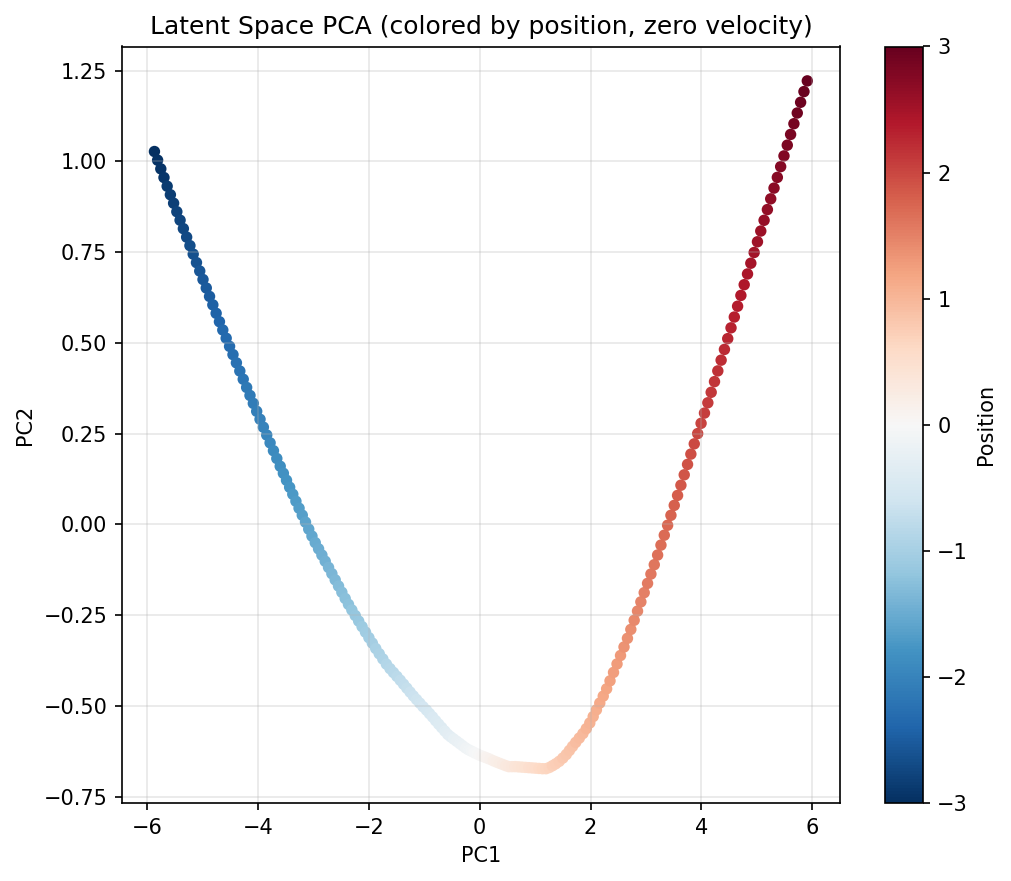
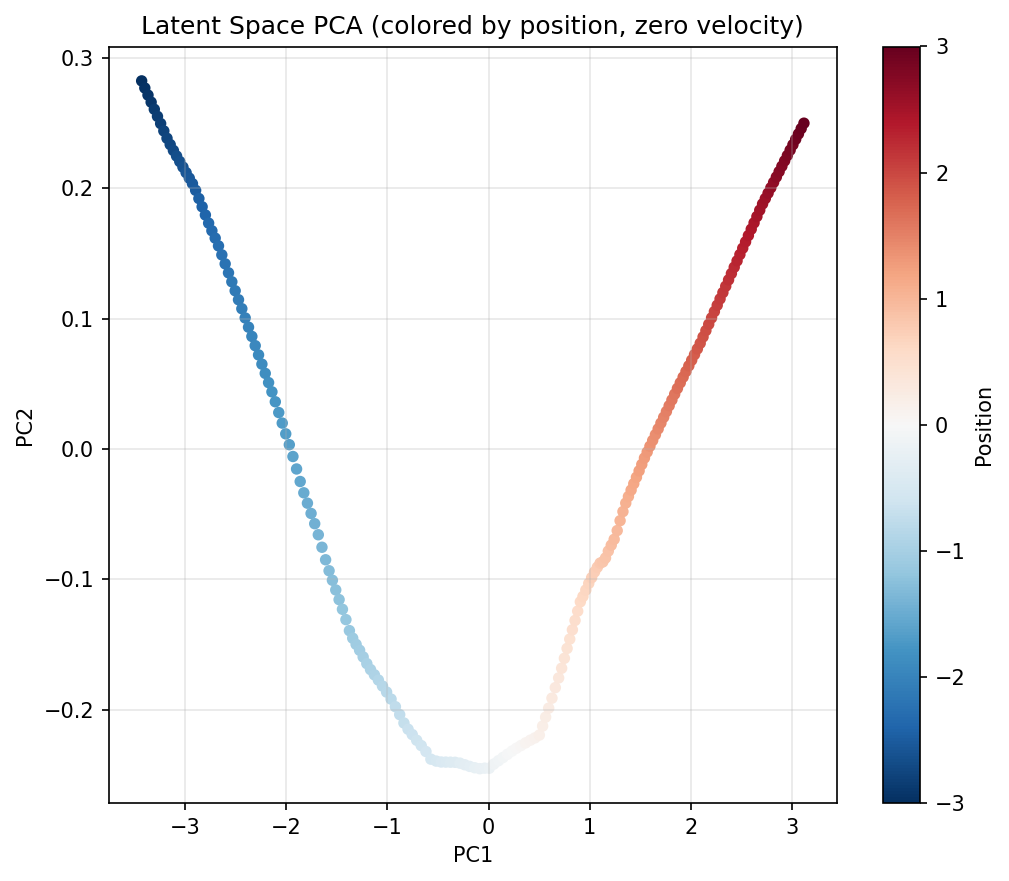
reduce param count from 86k -> 38k while improving loss

diff --git a/src/wrld/train.py b/src/wrld/train.py
@@ -43,10 +43,25 @@ def _synchronize_device(device: torch.device) -> None:
         torch.mps.synchronize()
 
 
+def _rollout_mse(model: WorldModel, val_obs: torch.Tensor, val_actions: torch.Tensor) -> torch.Tensor:
+    """Returns per-sequence rollout MSE over the full val set. Shape: (N,)"""
+    N, T, _ = val_obs.shape
+    with torch.no_grad():
+        mu_0, _ = model.encoder(val_obs[:, 0, :])
+        z = mu_0
+        preds = [model.decoder(z)]
+        for t in range(T - 1):
+            z = model.dynamics(z, val_actions[:, t, :])
+            preds.append(model.decoder(z))
+        predicted = torch.stack(preds, dim=1)  # (N, T, 2)
+        return ((predicted - val_obs) ** 2).mean(dim=(1, 2))  # (N,)
+
+
 def train(
     model: WorldModel,
     train_loader,
     val_loader,
+    val_data: dict = None,
     num_epochs: int = 200,
     lr: float = 1e-3,
     kl_weight: float = 0.001,
@@ -54,6 +69,7 @@ def train(
     device: torch.device = None,
     checkpoint_dir=None,
     checkpoint_every: int = 20,
+    rollout_every: int = 10,
 ) -> dict:
     """Full training loop. Returns loss history dict."""
     if device is None:
@@ -63,10 +79,18 @@ def train(
     optimizer = Adam(model.parameters(), lr=lr)
     scheduler = CosineAnnealingLR(optimizer, T_max=num_epochs)
 
+    # Pre-move val tensors to device once if provided
+    val_obs = val_actions = None
+    if val_data is not None:
+        val_obs = val_data["observations"].to(device)
+        val_actions = val_data["actions"].to(device)
+
     history = {
         "train_total": [], "train_recon": [], "train_dynamics": [], "train_kl": [],
         "val_total": [], "val_recon": [], "val_dynamics": [], "val_kl": [],
         "epoch_seconds": [],
+        "rollout_epochs": [], "rollout_mean": [], "rollout_std": [],
+        "rollout_min": [], "rollout_max": [],
     }
     _synchronize_device(device)
     training_start = perf_counter()
@@ -130,7 +154,22 @@ def train(
         epoch_seconds = perf_counter() - epoch_start
         history["epoch_seconds"].append(epoch_seconds)
 
-        if (epoch + 1) % 10 == 0:
+        if (epoch + 1) % rollout_every == 0:
+            rollout_str = ""
+            if val_obs is not None:
+                model.eval()
+                mse = _rollout_mse(model, val_obs, val_actions)
+                r_mean, r_std = mse.mean().item(), mse.std().item()
+                r_min, r_max = mse.min().item(), mse.max().item()
+                history["rollout_epochs"].append(epoch + 1)
+                history["rollout_mean"].append(r_mean)
+                history["rollout_std"].append(r_std)
+                history["rollout_min"].append(r_min)
+                history["rollout_max"].append(r_max)
+                rollout_str = (
+                    f" | rollout mse mean={r_mean:.4f} "
+                    f"std={r_std:.4f} min={r_min:.4f} max={r_max:.4f}"
+                )
             print(
                 f"Epoch {epoch+1:3d}/{num_epochs} | "
                 f"train total={history['train_total'][-1]:.4f} "
@@ -139,6 +178,7 @@ def train(
                 f"kl={history['train_kl'][-1]:.4f} | "
                 f"val total={history['val_total'][-1]:.4f} | "
                 f"epoch time={epoch_seconds:.2f}s"
+                + rollout_str
             )
 
         if checkpoint_dir is not None and (epoch + 1) % checkpoint_every == 0:

diff --git a/src/wrld/models.py b/src/wrld/models.py
@@ -8,7 +8,7 @@ Dimensions:
 import torch
 import torch.nn as nn
 
-LATENT_DIM = 30
+LATENT_DIM = 2
 OBS_DIM = 2
 ACTION_DIM = 1
 
@@ -41,13 +41,13 @@ class DynamicsModel(nn.Module):
     def __init__(self):
         super().__init__()
         self.net = nn.Sequential(
-            nn.Linear(LATENT_DIM + ACTION_DIM, 128),
+            nn.Linear(LATENT_DIM + ACTION_DIM, 64),
             nn.ReLU(),
-            nn.Linear(128, 128),
+            nn.Linear(64, 64),
             nn.ReLU(),
-            nn.Linear(128, 128),
-            nn.ReLU(),
-            nn.Linear(128, LATENT_DIM),
+            # nn.Linear(32, 32),
+            # nn.ReLU(),
+            nn.Linear(64, LATENT_DIM),
         )
 
     def forward(self, z: torch.Tensor, action: torch.Tensor) -> torch.Tensor:

diff --git a/scripts/train.py b/scripts/train.py
@@ -104,6 +104,7 @@ def main():
         model=model,
         train_loader=train_loader,
         val_loader=val_loader,
+        val_data=val_data,
         num_epochs=200,
         lr=1e-3,
         kl_weight=0.001,

diff --git a/readme.md b/readme.md
@@ -26,6 +26,8 @@ so heres a quick overview of the system architecture, i know its a little bit of
 ![](./figs/architecture.png)
 
 it boils down to an encoder -> latent dynamics model -> deccoder, but if theoretically your rollouts can live in the latent space as you add your action vector directly to the latent vector, thus removing the lossy encoder + decoder step.
+ok slight changes here, this no longer uses 2x 128 layers in the dynamics model, it uses 1 64 layer. and the latent representation is now 2, not 30. cuts max rollout MSE from .0752 -> 0.0095 
+
 
 ### loss
 ![](./figs/loss_curves.png)
